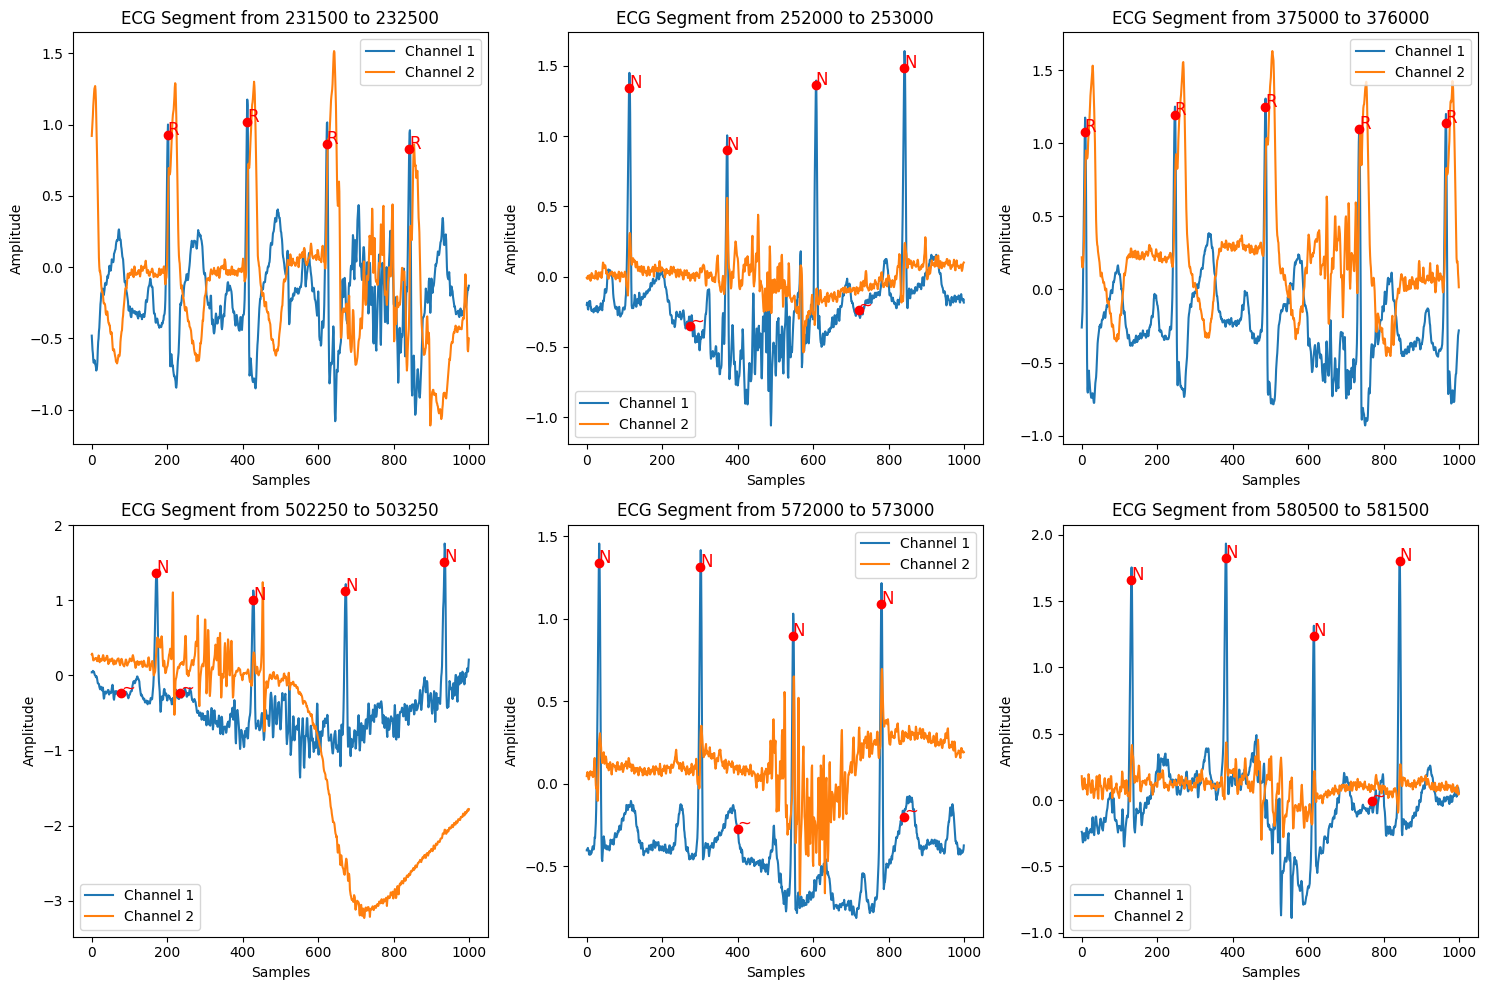
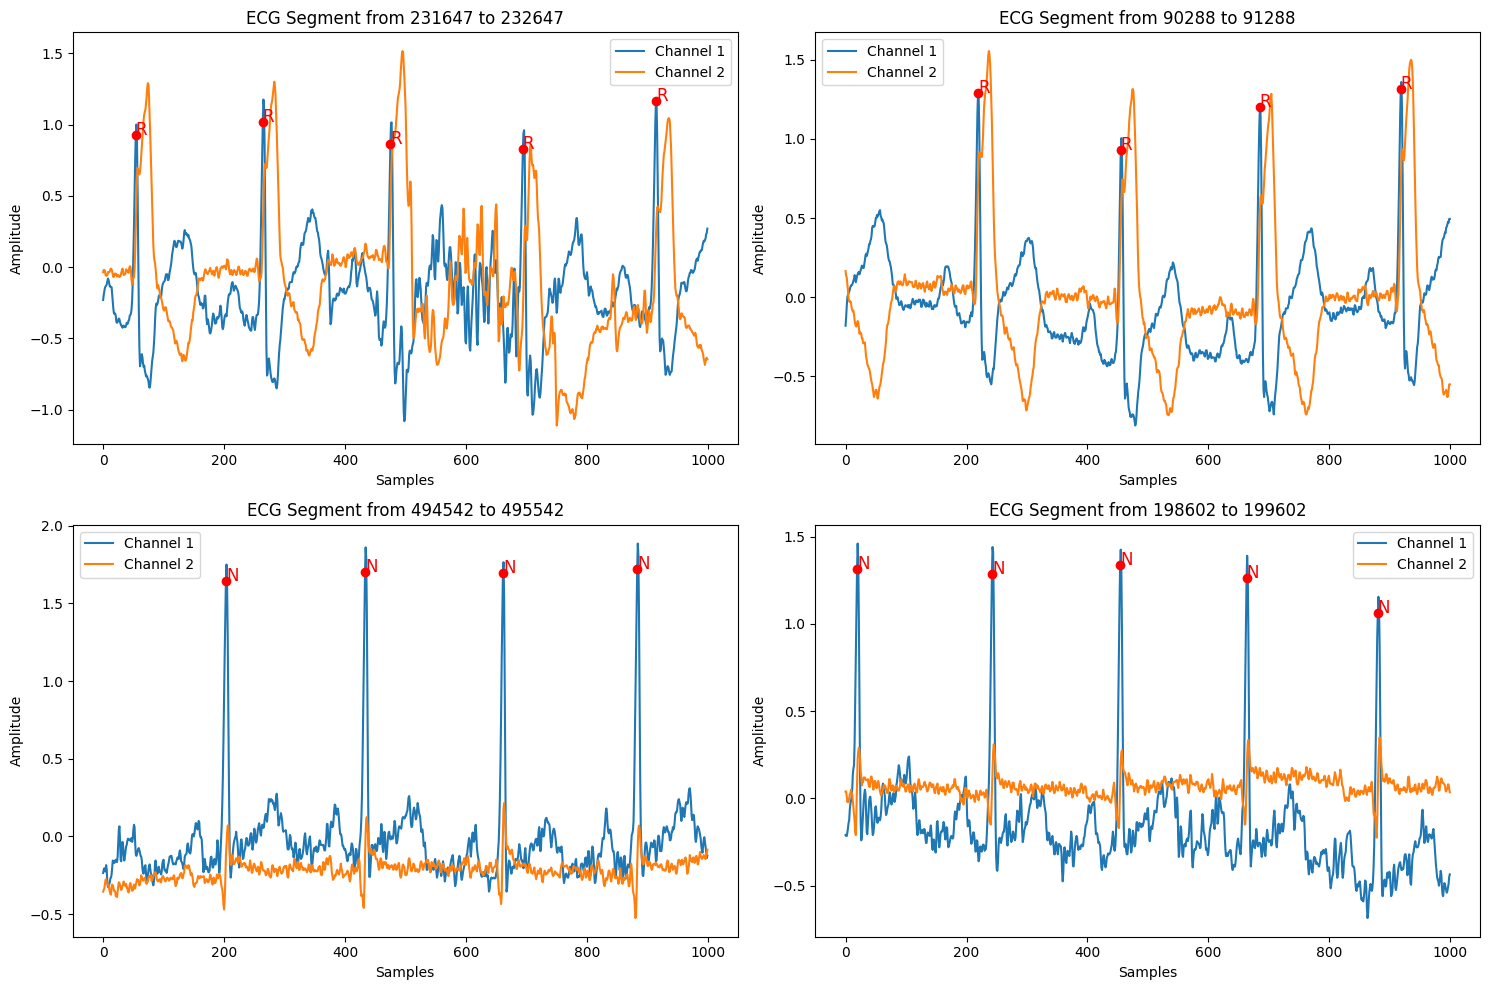
visualization plot fix

diff --git a/Projects/visualization.py b/Projects/visualization.py
@@ -78,37 +78,42 @@ class Visualization:
         self._save_plot(f"patient_{self.p_number}_all.png")
         plt.show()
 
-    def multi_plot_label(self):
+    def multi_plot_label(self, num_plots, num_cols):
         """Plots 4 random 1000 sample windows or Plots the artifacts, depending
         on self.plot_artifacts."""
 
         plt.figure(figsize=(15, 10))
 
+        start = [
+            np.random.randint(0, self.record.p_signal.shape[0] - 1000)
+            for _ in range(num_plots)
+        ]
+        end = [start_index + 1000 for start_index in start]
+
+
+        """
         if self.plot_artifacts == 0:
-            num_plots = 4
             start = [
                 np.random.randint(0, self.record.p_signal.shape[0] - 1000)
                 for _ in range(num_plots)
             ]
             end = [start_index + 1000 for start_index in start]
-            num_cols = 2
         else:
-            num_plots = 6
             start = [231500, 252000, 375000, 502250, 572000, 580500]
             end = [start_index + 1000 for start_index in start]
-            num_cols = 3
+        """
 
         for i in range(1, num_plots + 1):
             plt.subplot(2, num_cols, i)
 
-            # Plot both channels
+            # plot both channels
             for channel in range(self.record.p_signal.shape[1]):
                 plt.plot(
                     self.record.p_signal[start[i - 1] : end[i - 1], channel],
                     label=f"Channel {channel + 1}",
                 )
 
-            # Filter and plot annotations within the segment for both channels
+            # filter and plot annotations within the segment for both channels
             valid_indices = (self.annotation.sample >= start[i - 1]) & (
                 self.annotation.sample < end[i - 1]
             )
@@ -116,13 +121,12 @@ class Visualization:
             segment_ann_symbols = np.array(self.annotation.symbol)[valid_indices]
 
             for idx, symbol in zip(segment_ann_indices, segment_ann_symbols):
-                # Plot annotations on top of both channels
-                # Adjust 'y' for visibility if necessary
+                # plot annotations on top of both channels
                 y_offset = self.record.p_signal[
                     idx + start[i - 1],
                     0,
-                ]  # Adjust according to the signal amplitude
-                plt.plot(idx, y_offset, "ro")  # Mark annotation on the first channel
+                ]
+                plt.plot(idx, y_offset, "ro")
                 plt.text(idx, y_offset, symbol, color="red", fontsize=12)
 
             plt.title(f"ECG Segment from {start[i-1]} to {end[i-1]}")

diff --git a/Projects/main.py b/Projects/main.py
@@ -12,7 +12,7 @@ from save_load import Save
 from visualization import Visualization
 
 PATIENT_NUMBER = 212
-NR_RANDOM_INDEXES = 4
+NR_RANDOM_PLOTS = 4
 WINDOW_SIZE = 200
 OVERLAP = 0.5  # 0.5 = 50%
 VALID_ANNOTATIONS = {"N", "R"}
@@ -22,7 +22,7 @@ NUM_CLASSES = len(VALID_ANNOTATIONS)
 INVALID_ANNOTATIONS = {"~", "+", "|"}
 
 DO_VISUALIZATION = False
-DO_PREPROCESSING = False
+DO_PREPROCESSING = True
 DO_TRAINING = True
 
 SAMPLING_RATE = 360
@@ -105,7 +105,7 @@ if __name__ == "__main__":
 
         # prep.record.p_signal = np.array([list(tup) for tup in zip(prep.signal1, prep.signal2)]) # noqa
         # patient.record.p_signal = np.array([list(tup) for tup in zip(prep.signal1, prep.signal2)]) # noqa
-        # patient.multi_plot_label()
+        patient.multi_plot_label(NR_RANDOM_PLOTS, num_cols = 2)
         # patient.plot_all()
         """
         Turns out removing very high/very low amplitudes is not that necessary after
